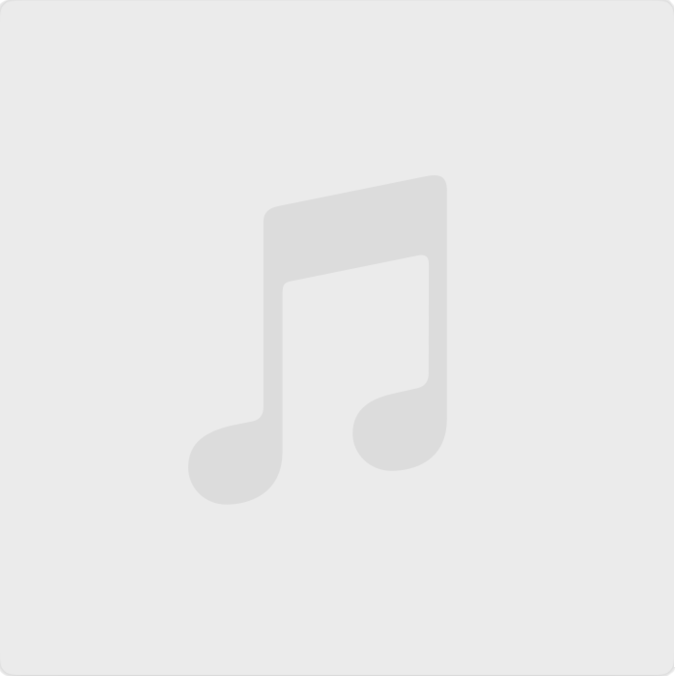
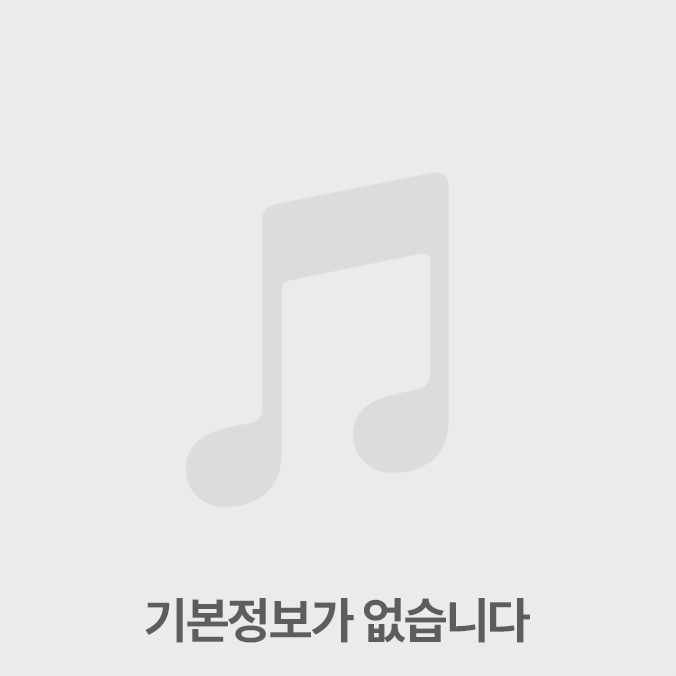
ts 수정

Changed region(s): [[0.2175, 0.8698, 0.7766, 0.963]]

diff --git a/src/components/Player.tsx b/src/components/Player.tsx
@@ -4,6 +4,7 @@ import { useSelector } from "react-redux";
 import { PlayStateAction } from "../module/reducer";
 import Audio from "./audio";
 import { useMyContext } from "../module/MyContext";
+import { url } from "inspector";
 
 type playerSelector = {
   track: string[];
@@ -20,7 +21,7 @@ function Player({ audioState, playlist }: playerProps) {
     "/img/defaultImg.png"
   );
   // 현재 썸네일 이미지
-  const [title, setTitle] = useState<string | undefined>("기본정보가 없습니다");
+  const [title, setTitle] = useState<string | undefined>("");
   // 현재 재생중인 노래 타이틀
   const [loop, setLoop] = useState(false);
   const [volume, setVolume] = useState(4);
@@ -30,13 +31,16 @@ function Player({ audioState, playlist }: playerProps) {
   // 재생되는 개체 풀 타임
   const [seekbar, setSeekbar] = useState(0);
   // 100% 중 몇프로 진행 됐는지
-
-  const [movieControl, setMovieControl] = useState(false);
-  //뮤비 토글 컨트롤러
-
   const playerRef = useRef<ReactPlayer>(null);
-  const playRef: any = playerRef.current;
+  const playRef: ReactPlayer | null = playerRef.current;
   const track = useSelector((state: playerSelector) => state.track);
+  const [movieToggle, setMovie] = useState(false);
+  useEffect(() => {
+    let playRef = playerRef.current;
+    if (!playRef) {
+      playRef = playerRef.current;
+    }
+  }, [playRef]);
 
   // 스페이스 누르면 일시정지 되게 하는 함수
   window.onkeyup = function (event) {
@@ -49,6 +53,9 @@ function Player({ audioState, playlist }: playerProps) {
   // 리스트 중 현재 재생중인 노래 index 함수
 
   function playSetting() {
+    setTimeout(() => {
+      setMovie(true);
+    }, 500);
     if (playRef) {
       const player = playRef.getInternalPlayer();
       const Sequence: number = player.playerInfo.playlistIndex;
@@ -66,7 +73,6 @@ function Player({ audioState, playlist }: playerProps) {
           }
         });
       }
-
       playGround(Sequence, videoTitle);
     }
   }
@@ -101,13 +107,9 @@ function Player({ audioState, playlist }: playerProps) {
   function handleDuration() {
     if (playRef) {
       const playerDurate = playRef.getDuration();
+      console.log(playerDurate);
       setDuration(playerDurate - 1);
-      // 총 재생 시간을 가져와서 업데이트
     }
-  }
-
-  function movieAction() {
-    setMovieControl((prev) => !prev);
   }
 
   // 곡의 풀타임 시간에 관한 함수
@@ -128,7 +130,7 @@ function Player({ audioState, playlist }: playerProps) {
     dispatch(PlayStateAction());
   }
 
-  function date(duration: number): string {
+  function TimeLogic(duration: number): string {
     let hour: number = Math.floor(duration / 3600);
     let minutes: string | number = Math.floor((duration - hour * 3600) / 60);
     let second: string | number = duration - hour * 3600 - minutes * 60;
@@ -138,20 +140,16 @@ function Player({ audioState, playlist }: playerProps) {
     if (condition(minutes)) {
       minutes = `0${minutes}`;
     } else {
-      minutes = minutes;
+      minutes = Math.ceil(minutes);
     }
     if (condition(second)) {
       second = `0${Math.ceil(second as number)}`;
     } else {
-      second = second;
+      second = Math.ceil(second);
     }
 
     return `${minutes} : ${second}`;
   }
-
-  useEffect(() => {
-    if (audioState) movieAction();
-  }, [audioState]);
 
   // api에 나온 시점을 분 초 로 계산하는 함수
 
@@ -159,46 +157,43 @@ function Player({ audioState, playlist }: playerProps) {
     <>
       <div className="play">
         <div className="movie_box">
-          <div className="movie-toggle">
-            <input type="checkbox" id="moive_check" onClick={movieAction} />
-            <label htmlFor="movie_check">뮤비보기</label>
-          </div>
-          {!movieControl ? (
-            <div className="playing">
-              <figure className="playing-thumbnail">
-                <img src={thumbnail} alt="" />
-              </figure>
-              <figcaption>{title}</figcaption>
-            </div>
-          ) : (
-            <ReactPlayer
-              ref={playerRef}
-              playing={audioState}
-              loop={loop}
-              url={track}
-              volume={Number(`0.${volume}`)}
-              onStart={() => {
-                playSetting();
-              }}
-              onPlay={() => {
-                playSetting();
-              }}
-              onDuration={handleDuration}
-              onError={handleError}
-              onProgress={handleProgress}
-              width="100%"
-              className={"player"}
-              height="100%"
-              controls={false}
-              config={{
-                youtube: {
-                  playerVars: {
-                    rel: 0,
-                    modestbranding: 1,
-                  },
+          <ReactPlayer
+            ref={playerRef}
+            playing={audioState}
+            loop={loop}
+            url={track}
+            volume={Number(`0.${volume}`)}
+            onStart={() => {
+              playSetting();
+            }}
+            onPlay={() => {
+              playSetting();
+              handleProgress();
+              handleDuration();
+            }}
+            onDuration={handleDuration}
+            onError={handleError}
+            onProgress={handleProgress}
+            width="100%"
+            className={"player"}
+            height="100%"
+            controls={false}
+            config={{
+              youtube: {
+                playerVars: {
+                  rel: 0,
+                  modestbranding: 1,
                 },
-              }}
-            />
+              },
+            }}
+          />
+          {!movieToggle ? (
+            <div
+              className="playing"
+              style={{ backgroundImage: `url(${thumbnail})` }}
+            ></div>
+          ) : (
+            <figcaption>{title}</figcaption>
           )}
         </div>
       </div>
@@ -209,7 +204,7 @@ function Player({ audioState, playlist }: playerProps) {
         getVolume={getVolume}
         loopAction={loopAction}
         played={played}
-        date={date}
+        TimeLogic={TimeLogic}
         seekbar={seekbar}
         duration={duration}
         handleSeekbar={handleSeekbar}

diff --git a/src/recomend_data.ts b/src/recomend_data.ts
@@ -4,43 +4,43 @@ const recomend_data = [
     url: "https://www.youtube.com/watch?v=Bwq3f5_kMfY",
     title: "Pass You By",
     singer: "Alaina Castillo",
-    thumbnail: "https://i.ytimg.com/vi/Bwq3f5_kMfY/hqdefault.jpg",
+    thumbnail: "/img/1.jpg",
   },
   {
     id: 3,
     url: "https://www.youtube.com/watch?v=ezcdE4lPpq8",
     title: "You Are The Reason",
     singer: "Alexandra Porat",
-    thumbnail: "https://i.ytimg.com/vi/ezcdE4lPpq8/hqdefault.jpg",
+    thumbnail: "/img/2.jpg",
   },
   {
     id: 4,
     url: "https://www.youtube.com/watch?v=Ww1SOu2btR0",
     title: "blue",
     singer: "inviz",
-    thumbnail: "https://i.ytimg.com/vi/Ww1SOu2btR0/hqdefault.jpg",
+    thumbnail: "/img/4.jpg",
   },
   {
     id: 5,
     url: "https://www.youtube.com/watch?v=iVxcjbrj5Fc",
     title: "사랑 앞에서",
     singer: "유용민",
-    thumbnail: "https://i.ytimg.com/vi/iVxcjbrj5Fc/hqdefault.jpg",
+    thumbnail: "/img/5.jpg",
   },
   {
     id: 6,
     url: "https://www.youtube.com/watch?v=4gda8UjPqp0",
     title: "사랑해줘요(Love me)",
     singer: "마인드유(MIND U)",
-    thumbnail: "https://i.ytimg.com/vi/4gda8UjPqp0/hqdefault.jpg",
+    thumbnail: "/img/6.jpg",
   },
   {
     id: 7,
     url: "https://www.youtube.com/watch?v=rp3w7rZBxBo",
     title: "Mean It",
     singer: "Lauv, LANY",
-    thumbnail: "https://i.ytimg.com/vi/rp3w7rZBxBo/hqdefault.jpg",
+    thumbnail: "/img/7.jpg",
   },
 ];
 
-export {recomend_data}
+export { recomend_data };

diff --git a/src/asset/App.scss b/src/asset/App.scss
@@ -436,7 +436,7 @@ $fold: "all and (max-width:280px)";
 
   .album_list {
     display: flex;
-    width: 30%;
+    width: 31%;
     flex-direction: column;
     order: 2;
 
@@ -753,14 +753,16 @@ footer {
   }
 
   .playing {
-    order: 0;
+    position: absolute;
+    top: 0;
+    left: 0;
+    transform: scale(1.005);
   }
-}
 
-.player {
-  position: absolute;
-  top: 0;
-  left: 0;
+  figcaption {
+    font-weight: 500;
+    margin-top: 10px;
+  }
 }
 
 .player_wrap {
@@ -777,24 +779,21 @@ footer {
 .play {
   display: flex;
   flex-direction: column;
-  width: 30%;
+  width: 32%;
   align-items: center;
 }
 
 .playing {
   display: flex;
   width: 100%;
+  min-height: 300px;
+  max-height: 400px;
+  background-size: contain;
+  background-position: center;
   flex-direction: column;
-
-  .playing-thumbnail {
-    width: 100%;
-    overflow: hidden;
-
-    img {
-      width: 100%;
-      border-radius: 7px;
-    }
-  }
+  background-position-y: -35px;
+  position: relative;
+  z-index: 10;
 
   figcaption {
     text-align: center;

diff --git a/src/components/audio.tsx b/src/components/audio.tsx
@@ -11,9 +11,9 @@ type audioProps = {
   handleSeekbar: (params: number) => void;
   played: number;
   duration: number;
-  date: (parmas: number) => string;
+  TimeLogic: (parmas: number) => string;
   seekbar: number;
-  playRef: ReactPlayer | undefined;
+  playRef: ReactPlayer | null;
 };
 
 function Audio({
@@ -24,7 +24,7 @@ function Audio({
   loopAction,
   played,
   duration,
-  date,
+  TimeLogic,
   seekbar,
   handleSeekbar,
   playRef,
@@ -117,7 +117,7 @@ function Audio({
           )}
         </div>
         <div className="time_wrap">
-          <p className="load_time">{date(played)}</p>
+          <p className="load_time">{TimeLogic(played)}</p>
           <input
             type="range"
             step="any"
@@ -130,7 +130,7 @@ function Audio({
               handleSeekMouseUp(e)
             }
           />
-          <p className="full_time">{date(duration)}</p>
+          <p className="full_time">{TimeLogic(duration)}</p>
         </div>
       </div>
     </div>

diff --git a/src/App.tsx b/src/App.tsx
@@ -27,14 +27,7 @@ function App() {
         <div className="wrap">
           <Recommend />
           <Favorite audioState={audioState} favoriteState={favoriteState} />
-          <section
-            className="album_wrap"
-            style={
-              favoriteState.length > 0
-                ? { paddingBottom: 175 }
-                : { paddingBottom: 123 }
-            }
-          >
+          <section className="album_wrap">
             <Player audioState={audioState} playlist={list} />
             <AddForm />
             <List

diff --git a/src/components/Recommend.tsx b/src/components/Recommend.tsx
@@ -34,7 +34,7 @@ function Recommend() {
             return (
               <div className="album" key={item.id}>
                 <figure>
-                  <img src={`/img/${index}.jpg`} alt=""></img>
+                  <img src={`${item.thumbnail}`} alt=""></img>
                 </figure>
                 <figcaption>
                   <p>{item.title}</p>
